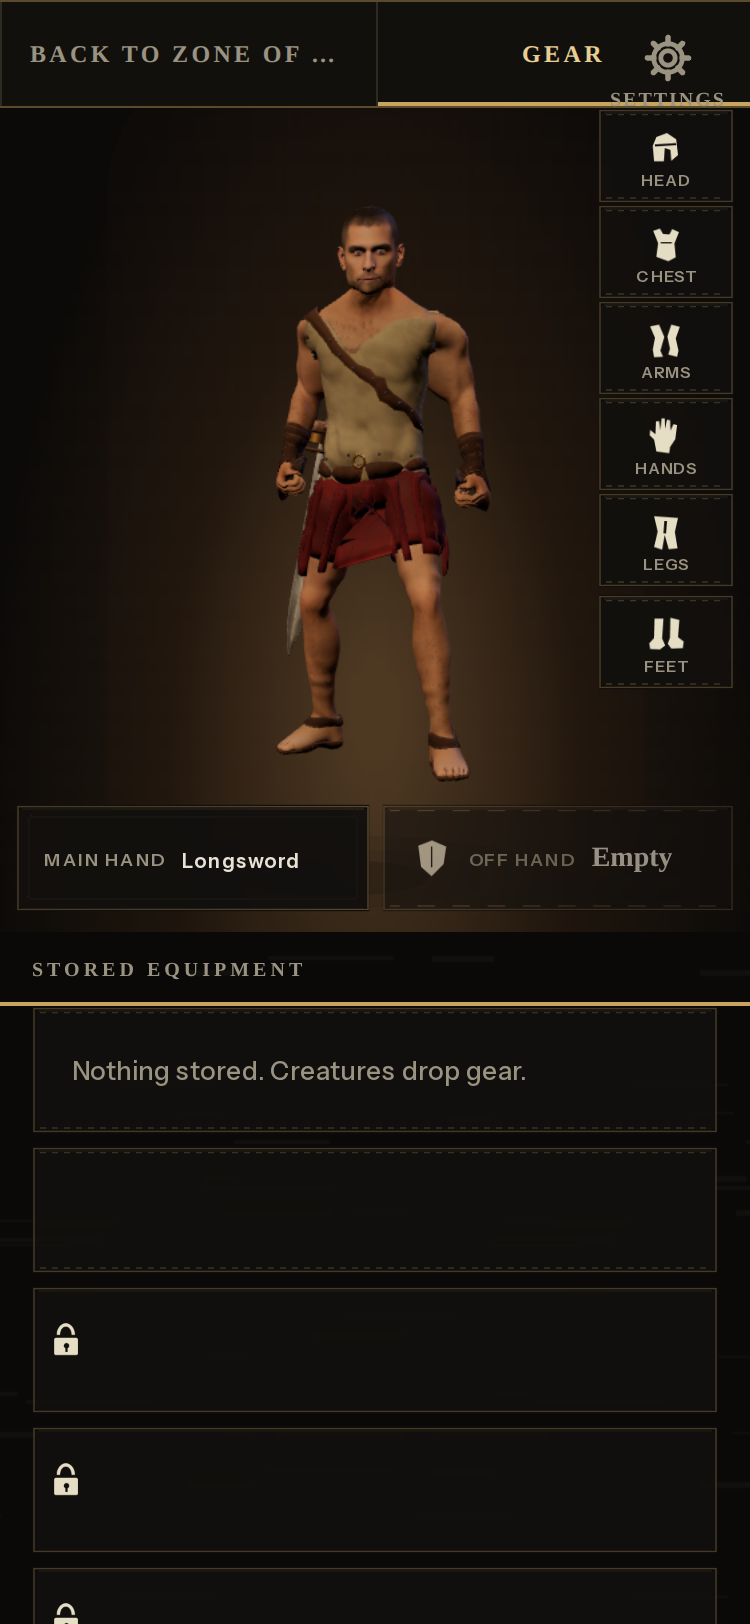
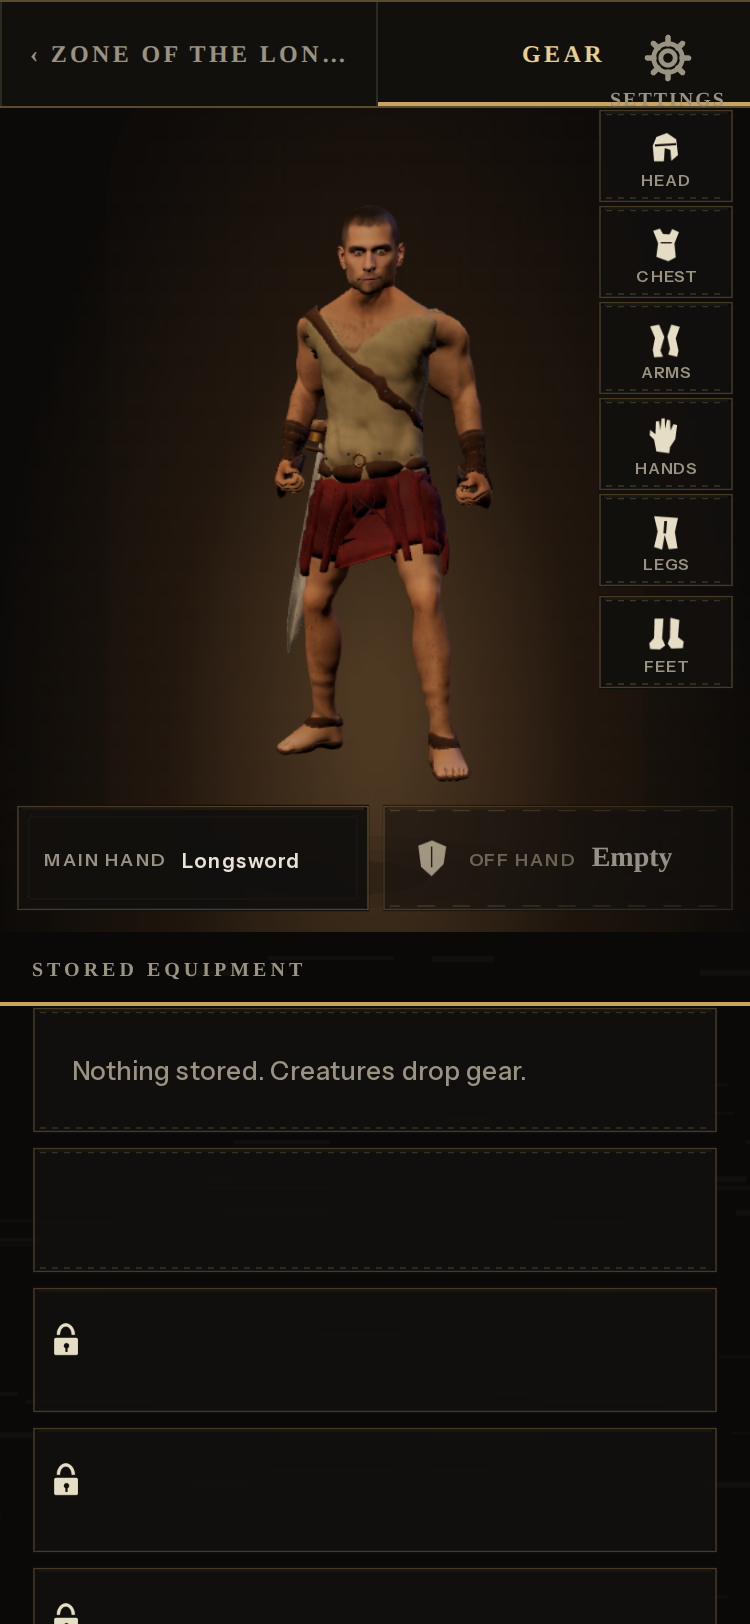
exit label: the pit-duel bind() source pin follows the new call; after stills with the new text

diff --git a/origins/preview/leave-entry.test.ts b/origins/preview/leave-entry.test.ts
@@ -25,7 +25,7 @@ test('the Origins duel menu has a Leave the Pit entry that closes the menu and l
 
 test('bind() uses it, and the preview page keeps the game\'s nav visible in the duel', () => {
   const src = readFileSync(new URL('./pit-duel.ts', import.meta.url), 'utf8'), html = readFileSync(new URL('./index.html', import.meta.url), 'utf8');
-  assert.match(src, /addLeaveEntry\(element\('app-nav'\), \(\) => journal!\.close\(\), leave, hostBack\)/);
+  assert.match(src, /addLeaveEntry\(element\('app-nav'\), \(\) => journal!\.close\(\), leave, hostBack\?\.back, hostBack\?\.text\)/);
   assert.doesNotMatch(html, /#duel #app-nav[^{]*\{[^}]*display: none/, 'the nav that carries the exit is not hidden');
   assert.match(html, /#duel\.world #journal[^{]*\{[^}]*pointer-events: auto/, 'the world layer is pointer-events none: the menu inside it must take taps, or the exit cannot be pressed (browser run, PR #1835)');
 });
